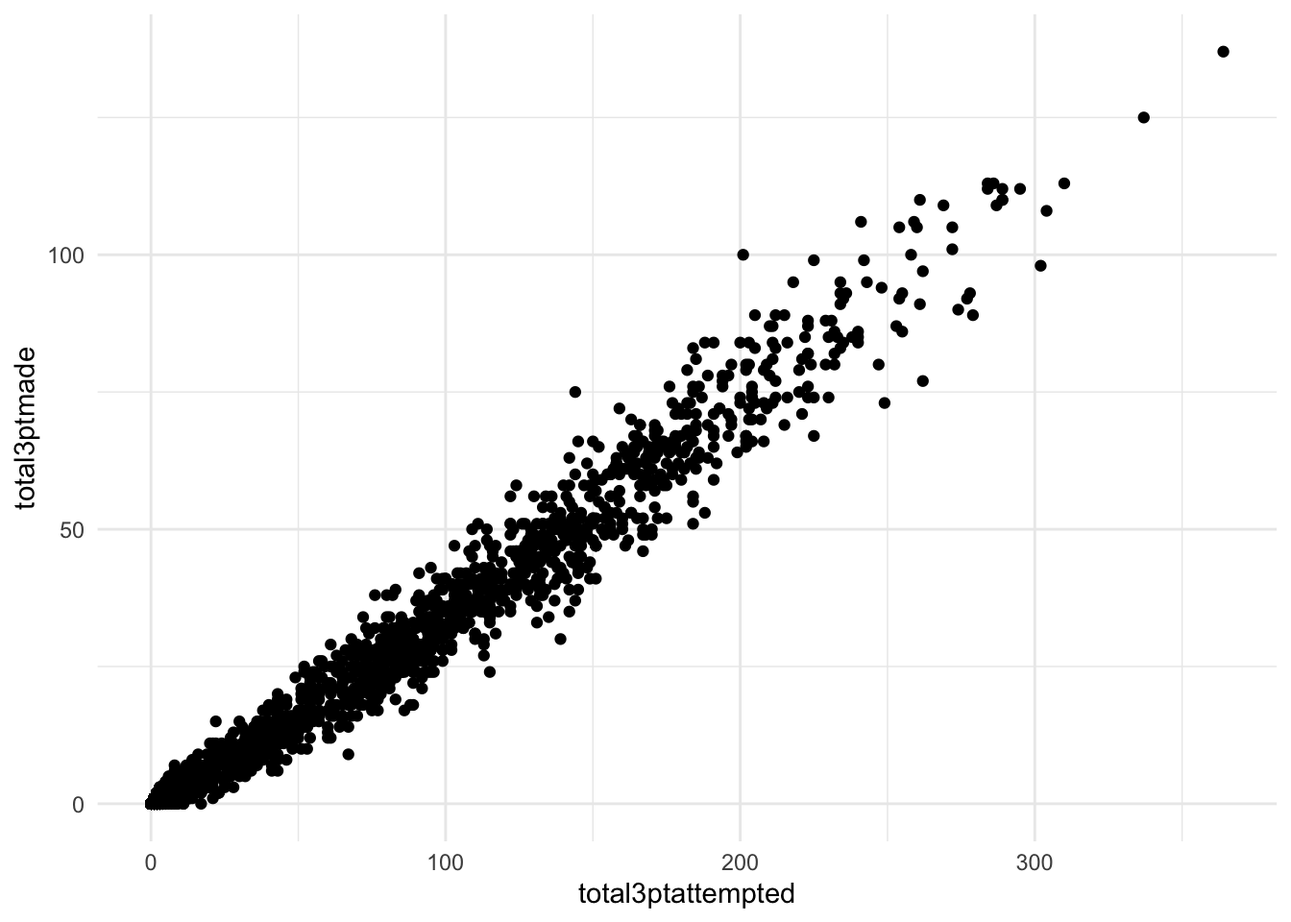
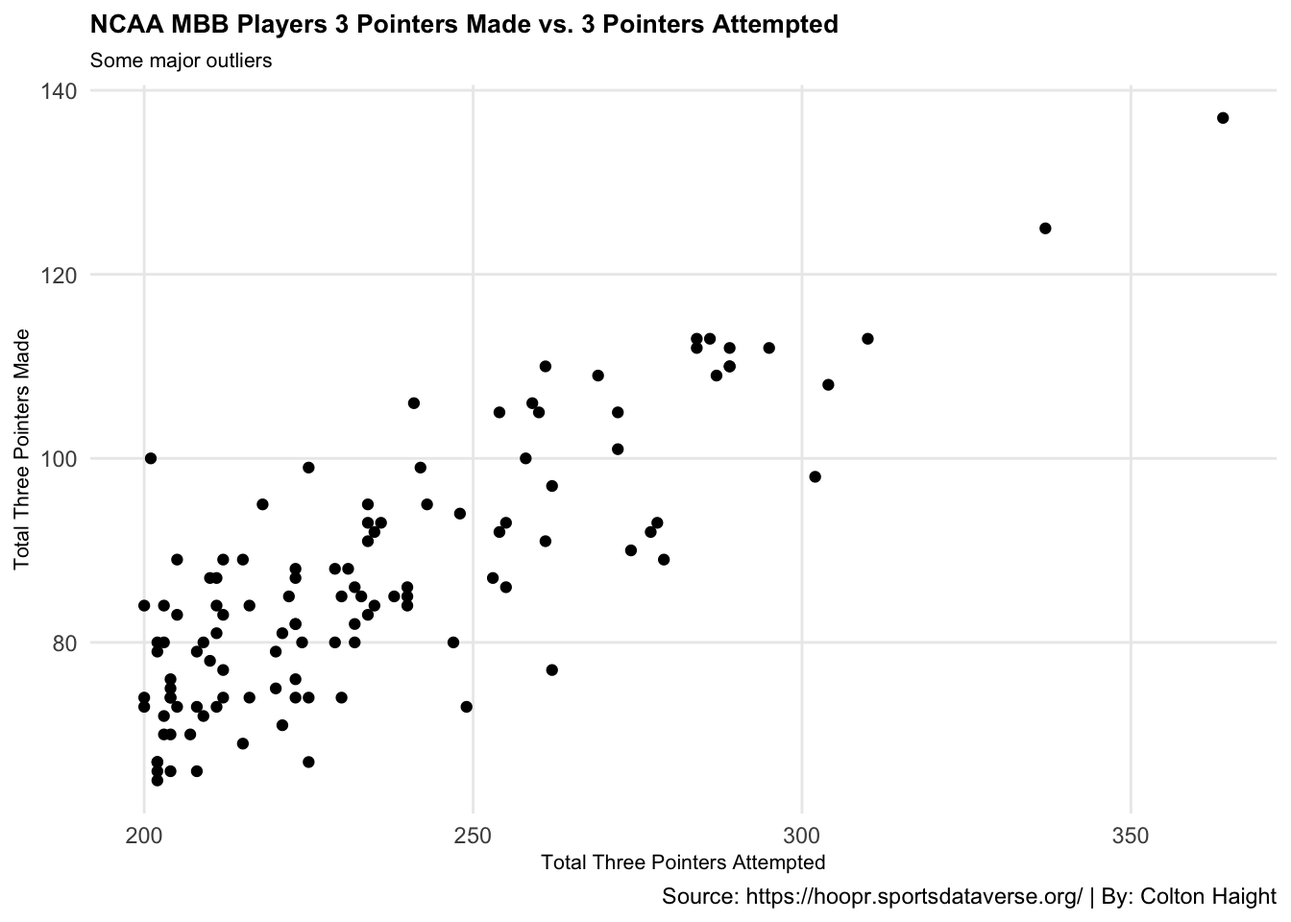
changed about and uploaded index data

diff --git a/posts/best-3pt-shooter-mcbb-2024/index.html b/posts/best-3pt-shooter-mcbb-2024/index.html
@@ -193,7 +193,8 @@ pre > code.sourceCode > span > a:first-child::before { text-decoration: underlin
 <div class="cell">
 <details class="code-fold">
 <summary>Code</summary>
-<div class="sourceCode cell-code" id="cb1"><pre class="sourceCode r code-with-copy"><code class="sourceCode r"><span id="cb1-1"><a href="#cb1-1" aria-hidden="true" tabindex="-1"></a><span class="fu">library</span>(tidyverse)</span></code><button title="Copy to Clipboard" class="code-copy-button"><i class="bi"></i></button></pre></div>
+<div class="sourceCode cell-code" id="cb1"><pre class="sourceCode r code-with-copy"><code class="sourceCode r"><span id="cb1-1"><a href="#cb1-1" aria-hidden="true" tabindex="-1"></a><span class="fu">library</span>(hoopR)</span>
+<span id="cb1-2"><a href="#cb1-2" aria-hidden="true" tabindex="-1"></a><span class="fu">library</span>(tidyverse)</span></code><button title="Copy to Clipboard" class="code-copy-button"><i class="bi"></i></button></pre></div>
 </details>
 <div class="cell-output cell-output-stderr">
 <pre><code>── Attaching core tidyverse packages ──────────────────────── tidyverse 2.0.0 ──
@@ -209,7 +210,7 @@ pre > code.sourceCode > span > a:first-child::before { text-decoration: underlin
 </div>
 <details class="code-fold">
 <summary>Code</summary>
-<div class="sourceCode cell-code" id="cb3"><pre class="sourceCode r code-with-copy"><code class="sourceCode r"><span id="cb3-1"><a href="#cb3-1" aria-hidden="true" tabindex="-1"></a><span class="fu">library</span>(hoopR)</span>
+<div class="sourceCode cell-code" id="cb3"><pre class="sourceCode r code-with-copy"><code class="sourceCode r"><span id="cb3-1"><a href="#cb3-1" aria-hidden="true" tabindex="-1"></a><span class="fu">library</span>(ggrepel)</span>
 <span id="cb3-2"><a href="#cb3-2" aria-hidden="true" tabindex="-1"></a></span>
 <span id="cb3-3"><a href="#cb3-3" aria-hidden="true" tabindex="-1"></a>mbb_player_stats <span class="ot">&lt;-</span> <span class="fu">load_mbb_player_box</span>(<span class="at">seasons =</span> <span class="dv">2024</span>)</span>
 <span id="cb3-4"><a href="#cb3-4" aria-hidden="true" tabindex="-1"></a></span>
@@ -221,11 +222,10 @@ pre > code.sourceCode > span > a:first-child::before { text-decoration: underlin
 <span id="cb3-10"><a href="#cb3-10" aria-hidden="true" tabindex="-1"></a>    <span class="at">totalpts =</span> <span class="fu">sum</span>(points)</span>
 <span id="cb3-11"><a href="#cb3-11" aria-hidden="true" tabindex="-1"></a>  )<span class="sc">|&gt;</span></span>
 <span id="cb3-12"><a href="#cb3-12" aria-hidden="true" tabindex="-1"></a>  <span class="fu">mutate</span>(</span>
-<span id="cb3-13"><a href="#cb3-13" aria-hidden="true" tabindex="-1"></a>    <span class="at">player3ptpct =</span> total3ptmade <span class="sc">/</span> total3ptattempted,</span>
+<span id="cb3-13"><a href="#cb3-13" aria-hidden="true" tabindex="-1"></a>    <span class="at">player3ptpct =</span> (total3ptmade <span class="sc">/</span> total3ptattempted) <span class="sc">*</span> <span class="dv">100</span>,</span>
 <span id="cb3-14"><a href="#cb3-14" aria-hidden="true" tabindex="-1"></a>    <span class="at">pointsoff3pts =</span> total3ptmade <span class="sc">*</span> <span class="dv">3</span>,</span>
 <span id="cb3-15"><a href="#cb3-15" aria-hidden="true" tabindex="-1"></a>    <span class="at">pointsnot3pts =</span> totalpts <span class="sc">-</span> pointsoff3pts</span>
-<span id="cb3-16"><a href="#cb3-16" aria-hidden="true" tabindex="-1"></a>  )<span class="sc">|&gt;</span></span>
-<span id="cb3-17"><a href="#cb3-17" aria-hidden="true" tabindex="-1"></a><span class="fu">arrange</span>(<span class="fu">desc</span>(total3ptmade))</span></code><button title="Copy to Clipboard" class="code-copy-button"><i class="bi"></i></button></pre></div>
+<span id="cb3-16"><a href="#cb3-16" aria-hidden="true" tabindex="-1"></a>  )</span></code><button title="Copy to Clipboard" class="code-copy-button"><i class="bi"></i></button></pre></div>
 </details>
 <div class="cell-output cell-output-stderr">
 <pre><code>`summarise()` has grouped output by 'athlete_display_name'. You can override
@@ -233,27 +233,142 @@ using the `.groups` argument.</code></pre>
 </div>
 <details class="code-fold">
 <summary>Code</summary>
-<div class="sourceCode cell-code" id="cb5"><pre class="sourceCode r code-with-copy"><code class="sourceCode r"><span id="cb5-1"><a href="#cb5-1" aria-hidden="true" tabindex="-1"></a>mbb3ptlong <span class="ot">&lt;-</span> mbb3pt <span class="sc">|&gt;</span></span>
-<span id="cb5-2"><a href="#cb5-2" aria-hidden="true" tabindex="-1"></a>  <span class="fu">select</span>(<span class="sc">-</span>totalpts) <span class="sc">|&gt;</span></span>
-<span id="cb5-3"><a href="#cb5-3" aria-hidden="true" tabindex="-1"></a>  <span class="fu">pivot_longer</span>(</span>
-<span id="cb5-4"><a href="#cb5-4" aria-hidden="true" tabindex="-1"></a>    <span class="at">cols =</span> <span class="fu">ends_with</span>(<span class="st">"pts"</span>),</span>
-<span id="cb5-5"><a href="#cb5-5" aria-hidden="true" tabindex="-1"></a>    <span class="at">names_to =</span> <span class="st">"Type Of Point"</span>,</span>
-<span id="cb5-6"><a href="#cb5-6" aria-hidden="true" tabindex="-1"></a>    <span class="at">values_to =</span> <span class="st">"points"</span></span>
-<span id="cb5-7"><a href="#cb5-7" aria-hidden="true" tabindex="-1"></a>  )</span>
-<span id="cb5-8"><a href="#cb5-8" aria-hidden="true" tabindex="-1"></a></span>
-<span id="cb5-9"><a href="#cb5-9" aria-hidden="true" tabindex="-1"></a><span class="fu">ggplot</span>() <span class="sc">+</span> </span>
-<span id="cb5-10"><a href="#cb5-10" aria-hidden="true" tabindex="-1"></a>  <span class="fu">geom_point</span>(<span class="at">data =</span> mbb3pt, <span class="fu">aes</span>(<span class="at">x =</span> total3ptattempted</span>
-<span id="cb5-11"><a href="#cb5-11" aria-hidden="true" tabindex="-1"></a>, <span class="at">y =</span> total3ptmade)) <span class="sc">+</span></span>
-<span id="cb5-12"><a href="#cb5-12" aria-hidden="true" tabindex="-1"></a>  <span class="fu">theme_minimal</span>()</span></code><button title="Copy to Clipboard" class="code-copy-button"><i class="bi"></i></button></pre></div>
+<div class="sourceCode cell-code" id="cb5"><pre class="sourceCode r code-with-copy"><code class="sourceCode r"><span id="cb5-1"><a href="#cb5-1" aria-hidden="true" tabindex="-1"></a>mbb3pt199 <span class="ot">&lt;-</span> mbb3pt<span class="sc">|&gt;</span></span>
+<span id="cb5-2"><a href="#cb5-2" aria-hidden="true" tabindex="-1"></a>  <span class="fu">filter</span>(total3ptattempted <span class="sc">&gt;</span> <span class="dv">199</span>)</span>
+<span id="cb5-3"><a href="#cb5-3" aria-hidden="true" tabindex="-1"></a></span>
+<span id="cb5-4"><a href="#cb5-4" aria-hidden="true" tabindex="-1"></a><span class="fu">ggplot</span>() <span class="sc">+</span> </span>
+<span id="cb5-5"><a href="#cb5-5" aria-hidden="true" tabindex="-1"></a>  <span class="fu">geom_point</span>(<span class="at">data =</span> mbb3pt199, <span class="fu">aes</span>(<span class="at">x =</span> total3ptattempted</span>
+<span id="cb5-6"><a href="#cb5-6" aria-hidden="true" tabindex="-1"></a>, <span class="at">y =</span> total3ptmade)) <span class="sc">+</span> </span>
+<span id="cb5-7"><a href="#cb5-7" aria-hidden="true" tabindex="-1"></a>  <span class="fu">labs</span>(</span>
+<span id="cb5-8"><a href="#cb5-8" aria-hidden="true" tabindex="-1"></a>    <span class="at">x =</span> <span class="st">"Total Three Pointers Attempted"</span>,</span>
+<span id="cb5-9"><a href="#cb5-9" aria-hidden="true" tabindex="-1"></a>    <span class="at">y =</span> <span class="st">"Total Three Pointers Made"</span>,</span>
+<span id="cb5-10"><a href="#cb5-10" aria-hidden="true" tabindex="-1"></a>    <span class="at">title =</span> <span class="st">"NCAA MBB Players 3 Pointers Made vs. 3 Pointers Attempted"</span>,</span>
+<span id="cb5-11"><a href="#cb5-11" aria-hidden="true" tabindex="-1"></a>    <span class="at">subtitle =</span> <span class="st">"Some major outliers"</span>,</span>
+<span id="cb5-12"><a href="#cb5-12" aria-hidden="true" tabindex="-1"></a>    <span class="at">caption =</span> <span class="st">"Source: https://hoopr.sportsdataverse.org/ | By: Colton Haight"</span></span>
+<span id="cb5-13"><a href="#cb5-13" aria-hidden="true" tabindex="-1"></a>  ) <span class="sc">+</span></span>
+<span id="cb5-14"><a href="#cb5-14" aria-hidden="true" tabindex="-1"></a>  <span class="fu">theme_minimal</span>() <span class="sc">+</span></span>
+<span id="cb5-15"><a href="#cb5-15" aria-hidden="true" tabindex="-1"></a>  <span class="fu">theme</span>(</span>
+<span id="cb5-16"><a href="#cb5-16" aria-hidden="true" tabindex="-1"></a>    <span class="at">plot.title =</span> <span class="fu">element_text</span>(<span class="at">size =</span> <span class="dv">10</span>, <span class="at">face =</span> <span class="st">"bold"</span>),</span>
+<span id="cb5-17"><a href="#cb5-17" aria-hidden="true" tabindex="-1"></a>    <span class="at">axis.title =</span> <span class="fu">element_text</span>(<span class="at">size =</span> <span class="dv">8</span>), </span>
+<span id="cb5-18"><a href="#cb5-18" aria-hidden="true" tabindex="-1"></a>    <span class="at">plot.subtitle =</span> <span class="fu">element_text</span>(<span class="at">size =</span> <span class="dv">8</span>), </span>
+<span id="cb5-19"><a href="#cb5-19" aria-hidden="true" tabindex="-1"></a>    <span class="at">panel.grid.minor =</span> <span class="fu">element_blank</span>()</span>
+<span id="cb5-20"><a href="#cb5-20" aria-hidden="true" tabindex="-1"></a>  )</span></code><button title="Copy to Clipboard" class="code-copy-button"><i class="bi"></i></button></pre></div>
 </details>
-<div class="cell-output cell-output-stderr">
-<pre><code>Warning: Removed 6831 rows containing missing values or values outside the scale range
-(`geom_point()`).</code></pre>
-</div>
 <div class="cell-output-display">
 <div>
 <figure class="figure">
 <p><img src="index_files/figure-html/unnamed-chunk-1-1.png" class="img-fluid figure-img" width="672"></p>
+</figure>
+</div>
+</div>
+<details class="code-fold">
+<summary>Code</summary>
+<div class="sourceCode cell-code" id="cb6"><pre class="sourceCode r code-with-copy"><code class="sourceCode r"><span id="cb6-1"><a href="#cb6-1" aria-hidden="true" tabindex="-1"></a>jg3pt <span class="ot">&lt;-</span> mbb3pt199<span class="sc">|&gt;</span> <span class="fu">filter</span>(athlete_display_name <span class="sc">==</span> <span class="st">"Jack Gohlke"</span>)</span>
+<span id="cb6-2"><a href="#cb6-2" aria-hidden="true" tabindex="-1"></a>tt3pt <span class="ot">&lt;-</span> mbb3pt199<span class="sc">|&gt;</span> <span class="fu">filter</span>(athlete_display_name <span class="sc">==</span> <span class="st">"Tyler Thomas"</span>)</span>
+<span id="cb6-3"><a href="#cb6-3" aria-hidden="true" tabindex="-1"></a></span>
+<span id="cb6-4"><a href="#cb6-4" aria-hidden="true" tabindex="-1"></a><span class="fu">ggplot</span>() <span class="sc">+</span> </span>
+<span id="cb6-5"><a href="#cb6-5" aria-hidden="true" tabindex="-1"></a>  <span class="fu">geom_point</span>(<span class="at">data =</span>  mbb3pt199, <span class="fu">aes</span>(<span class="at">x =</span> total3ptattempted, <span class="at">y =</span> total3ptmade, <span class="at">size =</span> player3ptpct), <span class="at">alpha =</span> .<span class="dv">3</span>) <span class="sc">+</span> </span>
+<span id="cb6-6"><a href="#cb6-6" aria-hidden="true" tabindex="-1"></a>  <span class="fu">geom_point</span>(<span class="at">data =</span>  jg3pt, <span class="fu">aes</span>(<span class="at">x =</span> total3ptattempted, <span class="at">y =</span> total3ptmade, <span class="at">size =</span> player3ptpct), <span class="at">color =</span> <span class="st">"#B59A57"</span>) <span class="sc">+</span></span>
+<span id="cb6-7"><a href="#cb6-7" aria-hidden="true" tabindex="-1"></a>  <span class="fu">geom_point</span>(<span class="at">data =</span>  tt3pt, <span class="fu">aes</span>(<span class="at">x =</span> total3ptattempted, <span class="at">y =</span> total3ptmade, <span class="at">size =</span> player3ptpct), <span class="at">color =</span> <span class="st">"#13579A"</span>) <span class="sc">+</span></span>
+<span id="cb6-8"><a href="#cb6-8" aria-hidden="true" tabindex="-1"></a>  <span class="fu">geom_text_repel</span>(<span class="at">data =</span> jg3pt, <span class="fu">aes</span>(<span class="at">x =</span> total3ptattempted, <span class="at">y =</span> total3ptmade, <span class="at">label =</span> athlete_display_name)) <span class="sc">+</span></span>
+<span id="cb6-9"><a href="#cb6-9" aria-hidden="true" tabindex="-1"></a>  <span class="fu">geom_text_repel</span>(<span class="at">data =</span> tt3pt, <span class="fu">aes</span>(<span class="at">x =</span> total3ptattempted, <span class="at">y =</span> total3ptmade, <span class="at">label =</span> athlete_display_name)) <span class="sc">+</span></span>
+<span id="cb6-10"><a href="#cb6-10" aria-hidden="true" tabindex="-1"></a>  <span class="fu">labs</span>(</span>
+<span id="cb6-11"><a href="#cb6-11" aria-hidden="true" tabindex="-1"></a>    <span class="at">x =</span> <span class="st">"Total Three Pointers Attempted"</span>,</span>
+<span id="cb6-12"><a href="#cb6-12" aria-hidden="true" tabindex="-1"></a>    <span class="at">y =</span> <span class="st">"Total Three Pointers Made"</span>,</span>
+<span id="cb6-13"><a href="#cb6-13" aria-hidden="true" tabindex="-1"></a>    <span class="at">title =</span> <span class="st">"NCAA MBB Players 3 Pointers Made vs. 3 Pointers Attempted"</span>,</span>
+<span id="cb6-14"><a href="#cb6-14" aria-hidden="true" tabindex="-1"></a>    <span class="at">subtitle =</span> <span class="st">"Bubble size is based off player three point percentage"</span>,</span>
+<span id="cb6-15"><a href="#cb6-15" aria-hidden="true" tabindex="-1"></a>    <span class="at">caption =</span> <span class="st">"Source: https://hoopr.sportsdataverse.org/ | By: Colton Haight"</span></span>
+<span id="cb6-16"><a href="#cb6-16" aria-hidden="true" tabindex="-1"></a>  ) <span class="sc">+</span></span>
+<span id="cb6-17"><a href="#cb6-17" aria-hidden="true" tabindex="-1"></a>  <span class="fu">theme_minimal</span>() <span class="sc">+</span></span>
+<span id="cb6-18"><a href="#cb6-18" aria-hidden="true" tabindex="-1"></a>  <span class="fu">theme</span>(</span>
+<span id="cb6-19"><a href="#cb6-19" aria-hidden="true" tabindex="-1"></a>    <span class="at">plot.title =</span> <span class="fu">element_text</span>(<span class="at">size =</span> <span class="dv">10</span>, <span class="at">face =</span> <span class="st">"bold"</span>),</span>
+<span id="cb6-20"><a href="#cb6-20" aria-hidden="true" tabindex="-1"></a>    <span class="at">axis.title =</span> <span class="fu">element_text</span>(<span class="at">size =</span> <span class="dv">8</span>), </span>
+<span id="cb6-21"><a href="#cb6-21" aria-hidden="true" tabindex="-1"></a>    <span class="at">plot.subtitle =</span> <span class="fu">element_text</span>(<span class="at">size =</span> <span class="dv">8</span>), </span>
+<span id="cb6-22"><a href="#cb6-22" aria-hidden="true" tabindex="-1"></a>    <span class="at">panel.grid.minor =</span> <span class="fu">element_blank</span>()</span>
+<span id="cb6-23"><a href="#cb6-23" aria-hidden="true" tabindex="-1"></a>)</span></code><button title="Copy to Clipboard" class="code-copy-button"><i class="bi"></i></button></pre></div>
+</details>
+<div class="cell-output-display">
+<div>
+<figure class="figure">
+<p><img src="index_files/figure-html/unnamed-chunk-1-2.png" class="img-fluid figure-img" width="672"></p>
+</figure>
+</div>
+</div>
+<details class="code-fold">
+<summary>Code</summary>
+<div class="sourceCode cell-code" id="cb7"><pre class="sourceCode r code-with-copy"><code class="sourceCode r"><span id="cb7-1"><a href="#cb7-1" aria-hidden="true" tabindex="-1"></a>mbb3pt40pct <span class="ot">&lt;-</span> mbb3pt199<span class="sc">|&gt;</span></span>
+<span id="cb7-2"><a href="#cb7-2" aria-hidden="true" tabindex="-1"></a>  <span class="fu">filter</span>(player3ptpct <span class="sc">&gt;</span> <span class="fl">39.9</span>)<span class="sc">|&gt;</span></span>
+<span id="cb7-3"><a href="#cb7-3" aria-hidden="true" tabindex="-1"></a>  <span class="fu">arrange</span>(<span class="fu">desc</span>(player3ptpct))</span>
+<span id="cb7-4"><a href="#cb7-4" aria-hidden="true" tabindex="-1"></a></span>
+<span id="cb7-5"><a href="#cb7-5" aria-hidden="true" tabindex="-1"></a>kb3pt <span class="ot">&lt;-</span> mbb3pt40pct <span class="sc">|&gt;</span> <span class="fu">filter</span>(athlete_display_name <span class="sc">==</span> <span class="st">"Koby Brea"</span>)</span>
+<span id="cb7-6"><a href="#cb7-6" aria-hidden="true" tabindex="-1"></a>ms3pt <span class="ot">&lt;-</span> mbb3pt40pct <span class="sc">|&gt;</span> <span class="fu">filter</span>(athlete_display_name <span class="sc">==</span> <span class="st">"Mark Sears"</span>)</span>
+<span id="cb7-7"><a href="#cb7-7" aria-hidden="true" tabindex="-1"></a>cs3pt <span class="ot">&lt;-</span> mbb3pt40pct <span class="sc">|&gt;</span> <span class="fu">filter</span>(athlete_display_name <span class="sc">==</span> <span class="st">"Cam Spencer"</span>)</span>
+<span id="cb7-8"><a href="#cb7-8" aria-hidden="true" tabindex="-1"></a></span>
+<span id="cb7-9"><a href="#cb7-9" aria-hidden="true" tabindex="-1"></a></span>
+<span id="cb7-10"><a href="#cb7-10" aria-hidden="true" tabindex="-1"></a><span class="fu">ggplot</span>() <span class="sc">+</span> </span>
+<span id="cb7-11"><a href="#cb7-11" aria-hidden="true" tabindex="-1"></a>  <span class="fu">geom_point</span>(<span class="at">data =</span>  mbb3pt40pct, <span class="fu">aes</span>(<span class="at">x =</span> totalpts, <span class="at">y =</span> player3ptpct, <span class="at">size =</span> total3ptmade), <span class="at">alpha =</span> .<span class="dv">3</span>) <span class="sc">+</span> </span>
+<span id="cb7-12"><a href="#cb7-12" aria-hidden="true" tabindex="-1"></a>  <span class="fu">geom_point</span>(<span class="at">data =</span>  kb3pt, <span class="fu">aes</span>(<span class="at">x =</span> totalpts, <span class="at">y =</span> player3ptpct, <span class="at">size =</span> total3ptmade), <span class="at">color =</span> <span class="st">"#F80228"</span>) <span class="sc">+</span></span>
+<span id="cb7-13"><a href="#cb7-13" aria-hidden="true" tabindex="-1"></a>  <span class="fu">geom_point</span>(<span class="at">data =</span>  ms3pt, <span class="fu">aes</span>(<span class="at">x =</span> totalpts, <span class="at">y =</span> player3ptpct, <span class="at">size =</span> total3ptmade), <span class="at">color =</span> <span class="st">"#9E1B32"</span>) <span class="sc">+</span></span>
+<span id="cb7-14"><a href="#cb7-14" aria-hidden="true" tabindex="-1"></a>  <span class="fu">geom_point</span>(<span class="at">data =</span>  cs3pt, <span class="fu">aes</span>(<span class="at">x =</span> totalpts, <span class="at">y =</span> player3ptpct, <span class="at">size =</span> total3ptmade), <span class="at">color =</span> <span class="st">"#000E2F"</span>) <span class="sc">+</span></span>
+<span id="cb7-15"><a href="#cb7-15" aria-hidden="true" tabindex="-1"></a>  <span class="fu">geom_text_repel</span>(<span class="at">data =</span> kb3pt, <span class="fu">aes</span>(<span class="at">x =</span> totalpts, <span class="at">y =</span> player3ptpct, <span class="at">label =</span> athlete_display_name)) <span class="sc">+</span></span>
+<span id="cb7-16"><a href="#cb7-16" aria-hidden="true" tabindex="-1"></a>  <span class="fu">geom_text_repel</span>(<span class="at">data =</span> ms3pt, <span class="fu">aes</span>(<span class="at">x =</span> totalpts, <span class="at">y =</span> player3ptpct, <span class="at">label =</span> athlete_display_name)) <span class="sc">+</span></span>
+<span id="cb7-17"><a href="#cb7-17" aria-hidden="true" tabindex="-1"></a>  <span class="fu">geom_text_repel</span>(<span class="at">data =</span> cs3pt, <span class="fu">aes</span>(<span class="at">x =</span> totalpts, <span class="at">y =</span> player3ptpct, <span class="at">label =</span> athlete_display_name)) <span class="sc">+</span></span>
+<span id="cb7-18"><a href="#cb7-18" aria-hidden="true" tabindex="-1"></a>  <span class="fu">labs</span>(</span>
+<span id="cb7-19"><a href="#cb7-19" aria-hidden="true" tabindex="-1"></a>    <span class="at">x =</span> <span class="st">"Player Total Points"</span>,</span>
+<span id="cb7-20"><a href="#cb7-20" aria-hidden="true" tabindex="-1"></a>    <span class="at">y =</span> <span class="st">"Player Three Point Percentage"</span>,</span>
+<span id="cb7-21"><a href="#cb7-21" aria-hidden="true" tabindex="-1"></a>    <span class="at">title =</span> <span class="st">"NCAA MBB Players 3 Point Percentage vs. Total Points Scored"</span>,</span>
+<span id="cb7-22"><a href="#cb7-22" aria-hidden="true" tabindex="-1"></a>    <span class="at">subtitle =</span> <span class="st">"Bubble size is based off player total three pointers made"</span>,</span>
+<span id="cb7-23"><a href="#cb7-23" aria-hidden="true" tabindex="-1"></a>    <span class="at">caption =</span> <span class="st">"Source: https://hoopr.sportsdataverse.org/ | By: Colton Haight"</span></span>
+<span id="cb7-24"><a href="#cb7-24" aria-hidden="true" tabindex="-1"></a>  ) <span class="sc">+</span></span>
+<span id="cb7-25"><a href="#cb7-25" aria-hidden="true" tabindex="-1"></a>  <span class="fu">theme_minimal</span>() <span class="sc">+</span></span>
+<span id="cb7-26"><a href="#cb7-26" aria-hidden="true" tabindex="-1"></a>  <span class="fu">theme</span>(</span>
+<span id="cb7-27"><a href="#cb7-27" aria-hidden="true" tabindex="-1"></a>    <span class="at">plot.title =</span> <span class="fu">element_text</span>(<span class="at">size =</span> <span class="dv">10</span>, <span class="at">face =</span> <span class="st">"bold"</span>),</span>
+<span id="cb7-28"><a href="#cb7-28" aria-hidden="true" tabindex="-1"></a>    <span class="at">axis.title =</span> <span class="fu">element_text</span>(<span class="at">size =</span> <span class="dv">8</span>), </span>
+<span id="cb7-29"><a href="#cb7-29" aria-hidden="true" tabindex="-1"></a>    <span class="at">plot.subtitle =</span> <span class="fu">element_text</span>(<span class="at">size =</span> <span class="dv">8</span>), </span>
+<span id="cb7-30"><a href="#cb7-30" aria-hidden="true" tabindex="-1"></a>    <span class="at">panel.grid.minor =</span> <span class="fu">element_blank</span>()</span>
+<span id="cb7-31"><a href="#cb7-31" aria-hidden="true" tabindex="-1"></a>)</span></code><button title="Copy to Clipboard" class="code-copy-button"><i class="bi"></i></button></pre></div>
+</details>
+<div class="cell-output-display">
+<div>
+<figure class="figure">
+<p><img src="index_files/figure-html/unnamed-chunk-1-3.png" class="img-fluid figure-img" width="672"></p>
+</figure>
+</div>
+</div>
+<details class="code-fold">
+<summary>Code</summary>
+<div class="sourceCode cell-code" id="cb8"><pre class="sourceCode r code-with-copy"><code class="sourceCode r"><span id="cb8-1"><a href="#cb8-1" aria-hidden="true" tabindex="-1"></a>mbb3madetop10 <span class="ot">&lt;-</span> mbb3pt199<span class="sc">|&gt;</span></span>
+<span id="cb8-2"><a href="#cb8-2" aria-hidden="true" tabindex="-1"></a>  <span class="fu">filter</span>(total3ptmade <span class="sc">&gt;</span> <span class="dv">109</span>)<span class="sc">|&gt;</span></span>
+<span id="cb8-3"><a href="#cb8-3" aria-hidden="true" tabindex="-1"></a>  <span class="fu">arrange</span>(<span class="fu">desc</span>(total3ptmade))</span>
+<span id="cb8-4"><a href="#cb8-4" aria-hidden="true" tabindex="-1"></a>mbb3ptlong <span class="ot">&lt;-</span> mbb3madetop10 <span class="sc">|&gt;</span></span>
+<span id="cb8-5"><a href="#cb8-5" aria-hidden="true" tabindex="-1"></a>  <span class="fu">select</span>(<span class="sc">-</span>totalpts) <span class="sc">|&gt;</span></span>
+<span id="cb8-6"><a href="#cb8-6" aria-hidden="true" tabindex="-1"></a>  <span class="fu">pivot_longer</span>(</span>
+<span id="cb8-7"><a href="#cb8-7" aria-hidden="true" tabindex="-1"></a>    <span class="at">cols =</span> <span class="fu">ends_with</span>(<span class="st">"pts"</span>),</span>
+<span id="cb8-8"><a href="#cb8-8" aria-hidden="true" tabindex="-1"></a>    <span class="at">names_to =</span> <span class="st">"TypeOfPoint"</span>,</span>
+<span id="cb8-9"><a href="#cb8-9" aria-hidden="true" tabindex="-1"></a>    <span class="at">values_to =</span> <span class="st">"points"</span></span>
+<span id="cb8-10"><a href="#cb8-10" aria-hidden="true" tabindex="-1"></a>  )</span>
+<span id="cb8-11"><a href="#cb8-11" aria-hidden="true" tabindex="-1"></a></span>
+<span id="cb8-12"><a href="#cb8-12" aria-hidden="true" tabindex="-1"></a><span class="fu">ggplot</span>(<span class="at">data =</span> mbb3madetop10, <span class="fu">aes</span>(<span class="at">x =</span> <span class="fu">reorder</span>(athlete_display_name, pointsoff3pts), <span class="at">weight =</span> pointsoff3pts)) <span class="sc">+</span></span>
+<span id="cb8-13"><a href="#cb8-13" aria-hidden="true" tabindex="-1"></a>  <span class="fu">geom_bar</span>() <span class="sc">+</span> </span>
+<span id="cb8-14"><a href="#cb8-14" aria-hidden="true" tabindex="-1"></a>  <span class="fu">coord_flip</span>()</span></code><button title="Copy to Clipboard" class="code-copy-button"><i class="bi"></i></button></pre></div>
+</details>
+<div class="cell-output-display">
+<div>
+<figure class="figure">
+<p><img src="index_files/figure-html/unnamed-chunk-1-4.png" class="img-fluid figure-img" width="672"></p>
+</figure>
+</div>
+</div>
+<details class="code-fold">
+<summary>Code</summary>
+<div class="sourceCode cell-code" id="cb9"><pre class="sourceCode r code-with-copy"><code class="sourceCode r"><span id="cb9-1"><a href="#cb9-1" aria-hidden="true" tabindex="-1"></a><span class="fu">ggplot</span>(<span class="at">data =</span> mbb3ptlong, <span class="fu">aes</span>(<span class="at">x =</span> <span class="fu">reorder</span>(athlete_display_name, total3ptmade), <span class="at">weight =</span> points, <span class="at">fill =</span> TypeOfPoint)) <span class="sc">+</span></span>
+<span id="cb9-2"><a href="#cb9-2" aria-hidden="true" tabindex="-1"></a>  <span class="fu">geom_bar</span>() <span class="sc">+</span></span>
+<span id="cb9-3"><a href="#cb9-3" aria-hidden="true" tabindex="-1"></a>  <span class="fu">coord_flip</span>()</span></code><button title="Copy to Clipboard" class="code-copy-button"><i class="bi"></i></button></pre></div>
+</details>
+<div class="cell-output-display">
+<div>
+<figure class="figure">
+<p><img src="index_files/figure-html/unnamed-chunk-1-5.png" class="img-fluid figure-img" width="672"></p>
 </figure>
 </div>
 </div>

diff --git a/index.html b/index.html
@@ -205,7 +205,7 @@ window.Quarto = {
 
 <div class="quarto-listing quarto-listing-container-default" id="listing-listing">
 <div class="list quarto-listing-default">
-<div class="quarto-post image-right" data-index="0" data-categories="TkNBQSxCYXNrZXRiYWw=" data-listing-date-sort="1730786400000" data-listing-file-modified-sort="1730853125854" data-listing-date-modified-sort="NaN" data-listing-reading-time-sort="1" data-listing-word-count-sort="105">
+<div class="quarto-post image-right" data-index="0" data-categories="TkNBQSxCYXNrZXRiYWw=" data-listing-date-sort="1730786400000" data-listing-file-modified-sort="1731023684288" data-listing-date-modified-sort="NaN" data-listing-reading-time-sort="4" data-listing-word-count-sort="702">
 <div class="thumbnail">
 <p><a href="./posts/best-3pt-shooter-mcbb-2024/index.html" class="no-external"></a></p><a href="./posts/best-3pt-shooter-mcbb-2024/index.html" class="no-external">
 <p><img loading="lazy" src="./posts/best-3pt-shooter-mcbb-2024/image.png" class="thumbnail-image"></p>

diff --git a/about.html b/about.html
@@ -124,7 +124,7 @@ ul.task-list li input[type="checkbox"] {
 <div class="quarto-title-meta">
   </div>
 </header><main class="content" id="quarto-document-content">
-<p>About this blog</p>
+<p>Haight Talks Sports is Colton Haight’s sports blog. He is very interested in all things sports especially basketball and football.</p>
 
 
 </main> 
